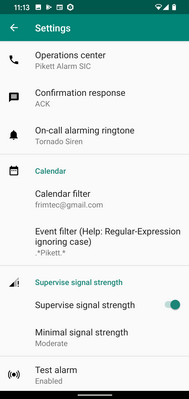
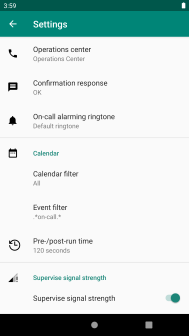
#130 Added new setting to documentation

diff --git a/readme.md b/readme.md
@@ -11,7 +11,7 @@ PAssist works for SMS based alerting systems.
 ## Features
 ### PAssist is controlled by your calendar
 PAssist activates and deactivates itself based on your calendar. All supervision features are only running, when PAssist is activated.
-PAssist activates five minutes before and keeps activated five minutes after the events start and stop time. 
+PAssist activates some time (configurable pre-/ post-run time) before and keeps activated some time after the events start and stop time. 
 This ensures you won't miss an alert in case of a small time discrepancy between the operations center time and your phone time.
 All calendar events matching a configured title pattern are considered as on-call events. 
 PAssist shows you an overview with all future on-call events on the calendar tab.
@@ -102,6 +102,10 @@ Defines one specific or all of your calenders, that should be used to look for o
 #### Event filter
 Defines a [Regular expression](https://en.wikipedia.org/wiki/Regular_expression) pattern (case insensitive) to 
 match the titles of your calendar events, which should be considered for your on-call duties.
+
+#### Pre- /post-run time
+Time in seconds to enable/disable the on-call state before and after the calender event.
+The default is 300 seconds (five minutes). 
     
 #### Supervise signal strength
 Defines whether the signal strength is supervised or not.
